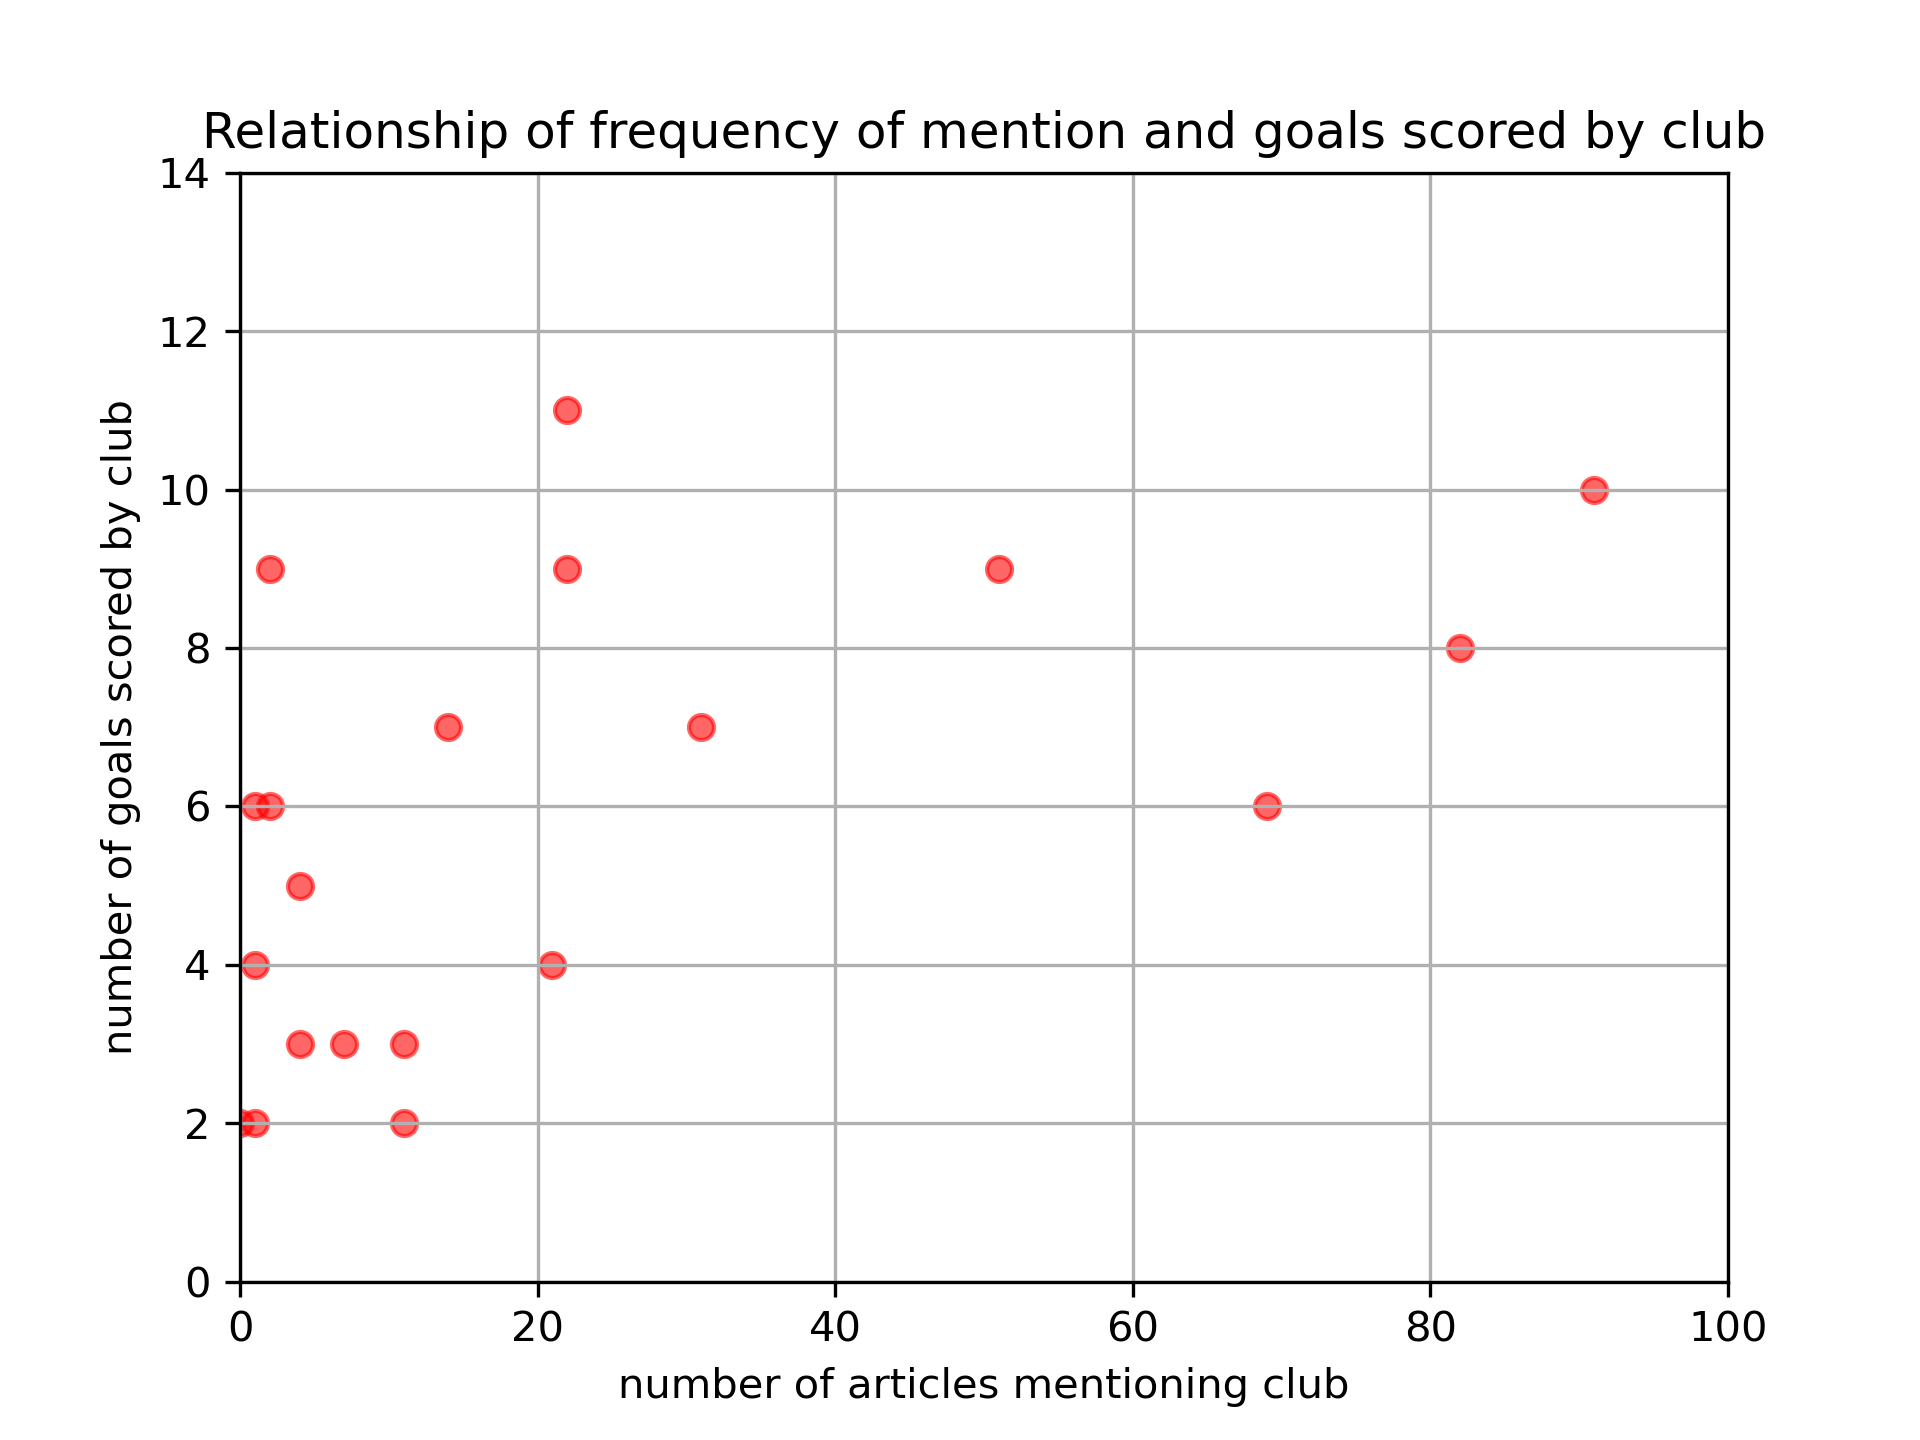
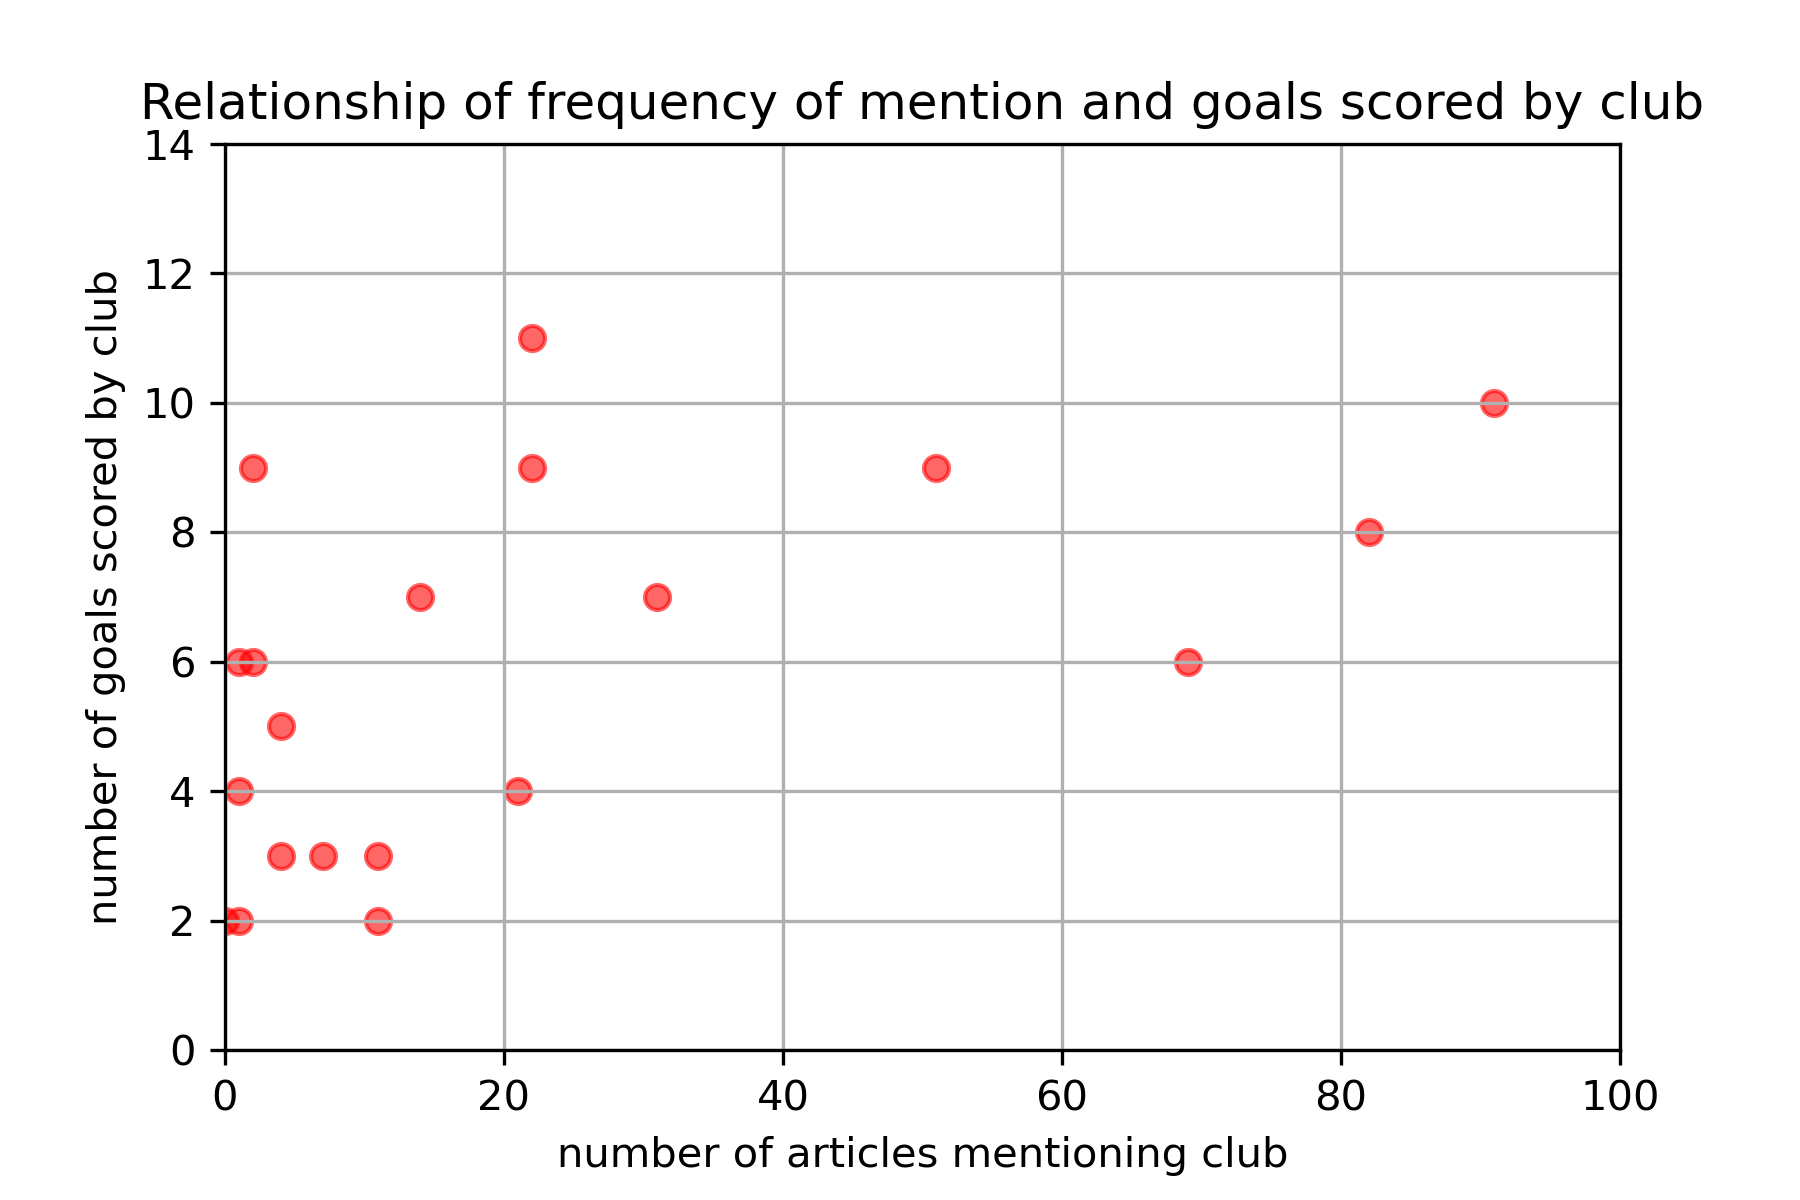
update 8.29

diff --git a/assignment1.py b/assignment1.py
@@ -179,6 +179,7 @@ def task5():
     plt.xticks(arange(len(list_tn)), list_tn, rotation = 90)
     plt.ylabel("The number of mentions")
     plt.title("The number of mentions of each team by media")
+    plt.rcParams["figure.figsize"] = (3, 3)
     plt.savefig("task5.png", dpi = 300)
     plt.show()
     return
@@ -216,12 +217,11 @@ def task6():
             #print(interact)
             similarity = calculate_sim_score(data[i], data[j], interact)
             sims[data[i][0]].append(similarity)
-    
-    #print(sims)
+
     sim_data = pd.DataFrame(sims, index = name_list)
-    #print(sim_data)        
     sns.heatmap(sim_data, cmap = 'viridis', xticklabels=True)
-    plt.savefig("task6.png", dpi = 300)
+    plt.rcParams["figure.figsize"] = (3, 3)
+    plt.savefig("task6.png", dpi = 500)
     plt.show()
     return
 
@@ -273,7 +273,7 @@ def task7():
     plt.xlabel("number of articles mentioning club")
     plt.ylabel("number of goals scored by club")
     plt.grid(True)
-    plt.savefig("task7.png", dpi = 300)
+    plt.savefig("task7.png", dpi = 500)
     plt.show()
     return
     
